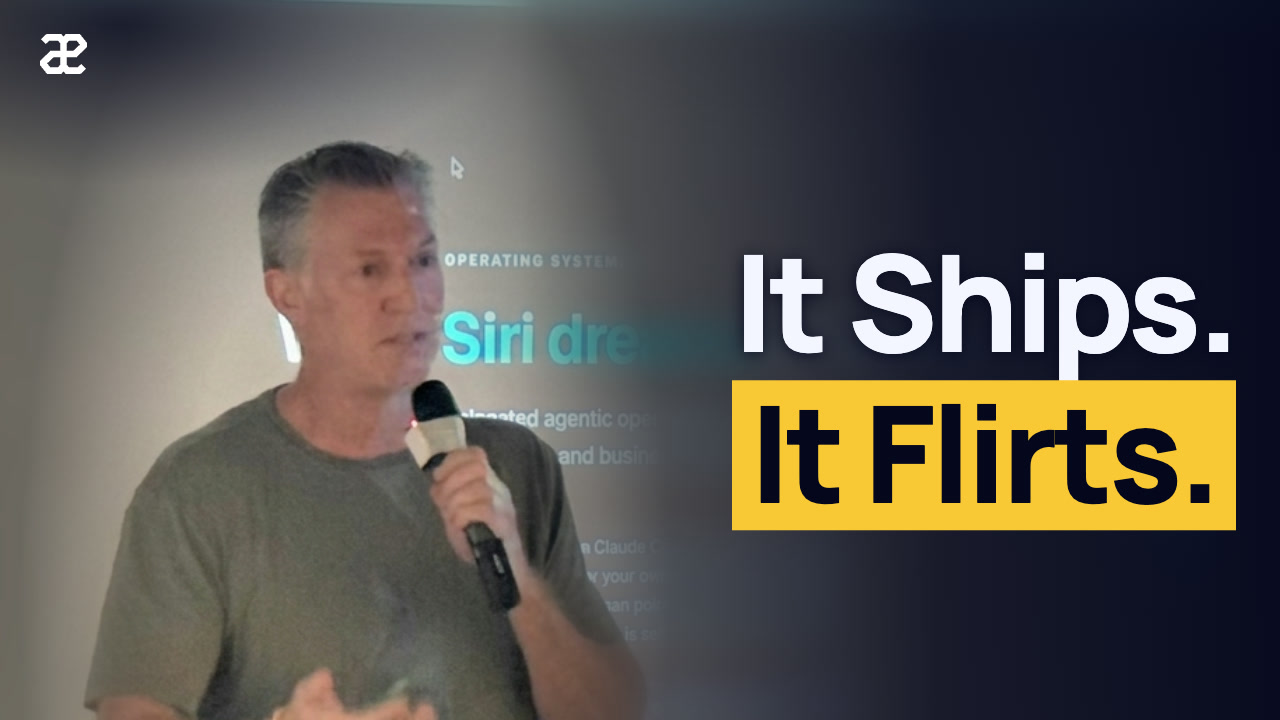
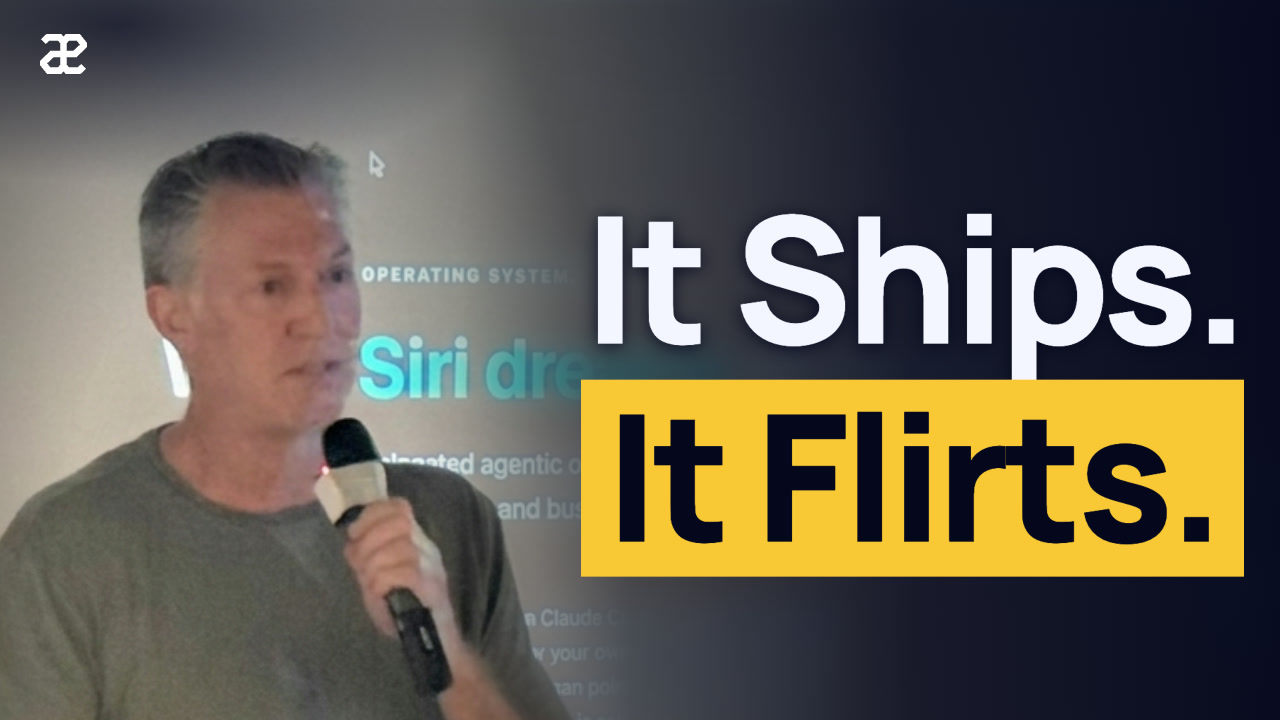
Thumbnails use the frame: larger speaker toward the edge, larger hook
Head about 37% of the frame height, the face nearer its edge, the hook sized
up to 176px and kept above the duration badge. The critic checks use of space.

diff --git a/scripts/thumbnail.html b/scripts/thumbnail.html
@@ -14,9 +14,9 @@
   /* Centred a little below the middle: clear of the signature above and of
      YouTube's duration badge in the bottom-right corner. */
   .hook { position: absolute; top: 53%; transform: translateY(-50%); display: flex; flex-direction: column; gap: 0.08em;
-          font: 800 134px/1.02 Manrope, sans-serif; letter-spacing: -0.03em; white-space: nowrap; }
-  .right .hook { left: 44px; align-items: flex-start; }
-  .left .hook { right: 44px; align-items: flex-end; }
+          font: 800 176px/1.02 Manrope, sans-serif; letter-spacing: -0.03em; white-space: nowrap; }
+  .right .hook { left: 36px; align-items: flex-start; }
+  .left .hook { right: 36px; align-items: flex-end; }
   .hook .hl { background: var(--yellow); color: var(--navy); padding: 0.03em 0.14em 0.07em; text-shadow: none; }
   .hook span.hl { display: inline-block; margin: 0 0.06em; }
   .hook .pl { text-shadow: 0 2px 18px rgba(5, 7, 30, 0.9); }
@@ -31,16 +31,16 @@ function render(img, sharp) {
   // The speaker keeps their side of the photo and the hook takes the other.
   // Never mirror the photo: slides and name tags have text.
   const left = CFG.face.x < img.width / 2;
-  // Head about 31% of the frame height, capped so a small face is not
+  // Head about 37% of the frame height, capped so a small face is not
   // enlarged into mush.
   const cover = Math.max(W / img.width, H / img.height);
-  const s = Math.min(Math.max(cover, 224 / CFG.face.h), cover * 3.6);
+  const s = Math.min(Math.max(cover, 268 / CFG.face.h), cover * 4.3);
   // The photo must reach the frame edge on the speaker's side. On the hook's
   // side it may stop short (a portrait photo is too narrow to fill the
   // frame with the speaker off-centre): the navy covers that side anyway.
-  const want = (left ? 0.27 : 0.73) * W - CFG.face.x * s;
+  const want = (left ? 0.19 : 0.81) * W - CFG.face.x * s;
   const ox = left ? Math.min(want, 0) : Math.max(want, W - img.width * s);
-  const oy = clamp(0.36 * H - CFG.face.y * s, H - img.height * s, 0);
+  const oy = clamp(0.38 * H - CFG.face.y * s, H - img.height * s, 0);
   const fx = ox + CFG.face.x * s, fy = oy + CFG.face.y * s, head = CFG.face.h * s;
   const draw = (c) => c.drawImage(img, ox, oy, img.width * s, img.height * s);
 
@@ -76,7 +76,7 @@ function render(img, sharp) {
   ctx.drawImage(off, 0, 0);
 
   // Navy from the hook's side, fading out before the speaker.
-  const edge = left ? W : 0, dir = left ? -1 : 1, fade = 760;
+  const edge = left ? W : 0, dir = left ? -1 : 1, fade = 820;
   const lg = ctx.createLinearGradient(edge, 0, edge + dir * fade, 0);
   lg.addColorStop(0, 'rgba(5,7,30,0.96)'); lg.addColorStop(0.45, 'rgba(5,7,30,0.8)'); lg.addColorStop(1, 'rgba(5,7,30,0)');
   ctx.fillStyle = lg; ctx.fillRect(Math.min(edge, edge + dir * fade), 0, fade, H);
@@ -88,7 +88,7 @@ function render(img, sharp) {
   ctx.fillStyle = tg; ctx.fillRect(0, 0, 520, 520); ctx.restore();
 
   // Room for the hook: from its margin to the speaker.
-  const room = Math.max(430, left ? W - 44 - (fx + head * 1.1) : fx - head * 1.1 - 44);
+  const room = Math.max(430, left ? W - 36 - (fx + head * 0.92) : fx - head * 0.92 - 36);
   return { side: left ? 'left' : 'right', room };
 }
 
@@ -115,8 +115,11 @@ const load = (src) => new Promise((ok, no) => {
   let fs = parseFloat(getComputedStyle(h).fontSize);
   // As large as fits: the width up to the speaker, and the height between
   // the logo above and the duration badge's corner below.
-  const tall = () => h.getBoundingClientRect().height > 500;
+  const tall = () => h.getBoundingClientRect().height > 560;
   while ((h.scrollWidth > r.room || tall()) && fs > 56) h.style.fontSize = (fs -= 2) + 'px';
+  // On the right, keep the text above YouTube's duration badge.
+  const box = h.getBoundingClientRect();
+  if (r.side === 'left' && box.bottom > 606) h.style.top = (606 - box.height / 2) + 'px';
   if (h.scrollWidth > r.room) throw new Error('the hook is too wide to clear the speaker: shorten it');
   if (!document.fonts.check('800 20px Manrope')) throw new Error('the fonts did not load');
   document.title = 'ready ' + Math.round(fs);

diff --git a/scripts/thumbnail.py b/scripts/thumbnail.py
@@ -52,7 +52,7 @@ TEMPLATE = pathlib.Path(__file__).resolve().parent / "thumbnail.html"
 # The logo is the brand's, in the website repository: read, never copied.
 MARK = common.ROOT.parent / "website/apps/branding/public/assets/logo/ae-mark-white.svg"
 LIMIT = 2 * 1024 * 1024  # thumbnails.set refuses more
-SMALL = 100  # hook type under this many px looks small beside the other thumbnails (the cap is 134)
+SMALL = 124  # hook type under this many px looks small beside the other thumbnails (the cap is 176)
 MIME = {".jpg": "image/jpeg", ".png": "image/png", ".svg": "image/svg+xml"}
 ENHANCE_MODEL = "google/gemini-3.1-flash-image"  # docs/adr/0003
 ENHANCE_PROMPT = (

diff --git a/.claude/skills/thumbnail-critic/SKILL.md b/.claude/skills/thumbnail-critic/SKILL.md
@@ -146,6 +146,11 @@ Judge it as a designer would, independent of the hook.
   as a whole phrase: "Phone Calls", "Lose Crypto", "Marketing". It never
   sits on a connective or half a phrase ("Focus, Not", "Per", "Calls").
 
+- **Uses the frame.** The speaker is large and pushed toward their edge (head
+  about 37% of the frame height), and the hook fills the rest: little dead
+  navy, text close to the speaker without touching the face. Crowded beats
+  empty. Name any thumbnail where the speaker could move further out or the
+  text could be larger.
 - **Even across the set.** On the contact sheet, the hooks should look close
   in type size and the photos close in brightness. Name any thumbnail whose
   text is clearly smaller or whose speaker is clearly darker than the rest;
